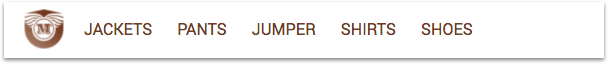
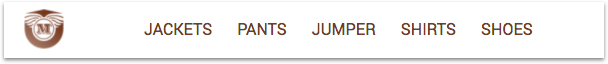
feat: abandoned cart navbar

Changed region(s): [[0.125, 0.3438, 0.875, 0.5625]]

diff --git a/abandoned_cart/index.html b/abandoned_cart/index.html
@@ -42,9 +42,11 @@
 
 <!--[if !mso]><!-->
     <link href="https://fonts.googleapis.com/css?family=Roboto:300,400,500,700" rel="stylesheet" type="text/css">
+<link href="https://fonts.googleapis.com/css?family=Ubuntu:300,400,500,700" rel="stylesheet" type="text/css">
     <style type="text/css">
 
         @import url(https://fonts.googleapis.com/css?family=Roboto:300,400,500,700);
+  @import url(https://fonts.googleapis.com/css?family=Ubuntu:300,400,500,700);
 
     </style>
   <!--<![endif]--><style type="text/css">
@@ -68,7 +70,18 @@
 .mj-column-px-295 { width:295px!important; }
   }
 </style>
-</head>
+<style type="text/css">
+        noinput.mj-menu-checkbox { display:block!important; max-height:none!important; visibility:visible!important; }
+
+        @media only screen and (max-width:480px) {
+          .mj-menu-checkbox[type="checkbox"] ~ .mj-inline-links { display:none!important; }
+          .mj-menu-checkbox[type="checkbox"]:checked ~ .mj-inline-links,
+          .mj-menu-checkbox[type="checkbox"] ~ .mj-menu-trigger { display:block!important; max-width:none!important; max-height:none!important; font-size:inherit!important; }
+          .mj-menu-checkbox[type="checkbox"] ~ .mj-inline-links > a { display:block!important; }
+          .mj-menu-checkbox[type="checkbox"]:checked ~ .mj-menu-trigger .mj-menu-icon-close { display:block!important; }
+          .mj-menu-checkbox[type="checkbox"]:checked ~ .mj-menu-trigger .mj-menu-icon-open { display:none!important; }
+        }
+      </style></head>
 <body>
   <div><!--[if mso | IE]>
       <table role="presentation" border="0" cellpadding="0" cellspacing="0" width="600" align="center" style="width:600px;">
@@ -78,28 +91,30 @@
       <table role="presentation" border="0" cellpadding="0" cellspacing="0"><tr><td style="vertical-align:middle;width:80px;">
       <![endif]--><div class="mj-column-px-80 outlook-group-fix" style="vertical-align:middle;display:inline-block;direction:ltr;font-size:13px;text-align:left;width:100%;"><table role="presentation" cellpadding="0" cellspacing="0" style="vertical-align:middle;" width="100%" border="0"><tbody><tr><td style="word-break:break-word;font-size:0px;padding:10px;" align="center"><table role="presentation" cellpadding="0" cellspacing="0" style="border-collapse:collapse;border-spacing:0px;" align="center" border="0"><tbody><tr><td style="width:40px;"><img alt="" title="" height="auto" src="https://s27.postimg.org/u09gkrbcz/logo_small.png" style="border:none;border-radius:0px;display:block;outline:none;text-decoration:none;width:100%;height:auto;" width="40"></td></tr></tbody></table></td></tr></tbody></table></div><!--[if mso | IE]>
       </td><td style="vertical-align:middle;width:520px;">
-      <![endif]--><div class="mj-column-px-520 outlook-group-fix" style="vertical-align:middle;display:inline-block;direction:ltr;font-size:13px;text-align:left;width:100%;"><table role="presentation" cellpadding="0" cellspacing="0" style="vertical-align:middle;" width="100%" border="0"><tbody><tr><td style="word-break:break-word;font-size:0px;padding:0px;" align="left"><div><div class="mj-inline-links" style="width:100%;text-align:left;"><!--[if gte mso 9]>
-          <table role="presentation" border="0" cellpadding="0" cellspacing="0" align="left">
+      <![endif]--><div class="mj-column-px-520 outlook-group-fix" style="vertical-align:middle;display:inline-block;direction:ltr;font-size:13px;text-align:left;width:100%;"><table role="presentation" cellpadding="0" cellspacing="0" style="vertical-align:middle;" width="100%" border="0"><tbody><tr><td style="word-break:break-word;font-size:0px;padding:0px;" align="center"><div><!--[if !mso]><!-->
+          <input type="checkbox" id="ff4269aa8b6ded86" class="mj-menu-checkbox" style="display:none !important; max-height:0; visibility:hidden;">
+        <!--<![endif]--><div class="mj-menu-trigger" style="display:none;max-height:0px;max-width:0px;font-size:0px;overflow:hidden;"><label for="ff4269aa8b6ded86" class="mj-menu-label" style="display:block;cursor:pointer;mso-hide:all;-moz-user-select:none;user-select:none;text-align:center;color:#763b26;font-size:40px;font-family:Ubuntu, Helvetica, Arial, sans-serif;text-transform:uppercase;text-decoration:none;line-height:30px;padding-top:10px;padding-left:10px;padding-right:10px;padding-bottom:20px;"><span class="mj-menu-icon-open" style="mso-hide:all;">☰</span><span class="mj-menu-icon-close" style="display:none;mso-hide:all;">⊗</span></label></div><div class="mj-inline-links" style="width:100%;text-align:center;"><!--[if gte mso 9]>
+          <table role="presentation" border="0" cellpadding="0" cellspacing="0" align="center">
             <tr>
         <![endif]--><!--[if gte mso 9]>
-          <td style="padding: 0">
-        <![endif]--><a href="/jackets" style="display:inline-block;text-decoration:none;text-transform:uppercase;color:#763b26;font-family:Roboto, Helvetica, Arial, sans-serif;font-size:16px;font-weight:normal;line-height:22px;padding:0px;padding-right:25px;">JACKETS</a><!--[if gte mso 9]>
+          <td style="padding: 12px">
+        <![endif]--><a href="/jackets" style="display:inline-block;text-decoration:none;text-transform:uppercase;color:#763b26;font-family:Roboto, Helvetica, Arial, sans-serif;font-size:16px;font-weight:normal;line-height:22px;padding:12px;">JACKETS</a><!--[if gte mso 9]>
           </td>
         <![endif]--><!--[if gte mso 9]>
-          <td style="padding: 0">
-        <![endif]--><a href="/pants" style="display:inline-block;text-decoration:none;text-transform:uppercase;color:#763b26;font-family:Roboto, Helvetica, Arial, sans-serif;font-size:16px;font-weight:normal;line-height:22px;padding:0px;padding-right:25px;">PANTS</a><!--[if gte mso 9]>
+          <td style="padding: 12px">
+        <![endif]--><a href="/pants" style="display:inline-block;text-decoration:none;text-transform:uppercase;color:#763b26;font-family:Roboto, Helvetica, Arial, sans-serif;font-size:16px;font-weight:normal;line-height:22px;padding:12px;">PANTS</a><!--[if gte mso 9]>
           </td>
         <![endif]--><!--[if gte mso 9]>
-          <td style="padding: 0">
-        <![endif]--><a href="/jumper" style="display:inline-block;text-decoration:none;text-transform:uppercase;color:#763b26;font-family:Roboto, Helvetica, Arial, sans-serif;font-size:16px;font-weight:normal;line-height:22px;padding:0px;padding-right:25px;">JUMPER</a><!--[if gte mso 9]>
+          <td style="padding: 12px">
+        <![endif]--><a href="/jumper" style="display:inline-block;text-decoration:none;text-transform:uppercase;color:#763b26;font-family:Roboto, Helvetica, Arial, sans-serif;font-size:16px;font-weight:normal;line-height:22px;padding:12px;">JUMPER</a><!--[if gte mso 9]>
           </td>
         <![endif]--><!--[if gte mso 9]>
-          <td style="padding: 0">
-        <![endif]--><a href="/shirts" style="display:inline-block;text-decoration:none;text-transform:uppercase;color:#763b26;font-family:Roboto, Helvetica, Arial, sans-serif;font-size:16px;font-weight:normal;line-height:22px;padding:0px;padding-right:25px;">SHIRTS</a><!--[if gte mso 9]>
+          <td style="padding: 12px">
+        <![endif]--><a href="/shirts" style="display:inline-block;text-decoration:none;text-transform:uppercase;color:#763b26;font-family:Roboto, Helvetica, Arial, sans-serif;font-size:16px;font-weight:normal;line-height:22px;padding:12px;">SHIRTS</a><!--[if gte mso 9]>
           </td>
         <![endif]--><!--[if gte mso 9]>
-          <td style="padding: 0">
-        <![endif]--><a href="/shoes" style="display:inline-block;text-decoration:none;text-transform:uppercase;color:#763b26;font-family:Roboto, Helvetica, Arial, sans-serif;font-size:16px;font-weight:normal;line-height:22px;padding:0px;padding-right:25px;">SHOES</a><!--[if gte mso 9]>
+          <td style="padding: 12px">
+        <![endif]--><a href="/shoes" style="display:inline-block;text-decoration:none;text-transform:uppercase;color:#763b26;font-family:Roboto, Helvetica, Arial, sans-serif;font-size:16px;font-weight:normal;line-height:22px;padding:12px;">SHOES</a><!--[if gte mso 9]>
           </td>
         <![endif]--><!--[if gte mso 9]>
             </tr>

diff --git a/abandoned_cart/README.md b/abandoned_cart/README.md
@@ -92,15 +92,23 @@ The second [`<mj-column>`](https://mjml.io/documentation/?utm_source=referrer&ut
 <!-- Navigation bar-->
 <mj-navbar background-color="#ffffff">
   <mj-column width="80px" vertical-align="middle">
-    <mj-image width="40px" src="http://bit.ly/mj-tpl-tuto-logo-small" padding="10px"></mj-image>
+    <mj-image width="40px" src="https://s27.postimg.org/u09gkrbcz/logo_small.png" padding="10px"></mj-image>
   </mj-column>
   <mj-column width="520px" vertical-align="middle">
-    <mj-inline-links base-url="#" align="left">
-      <mj-link href="/jackets" mj-class="nav-link" padding-right="25px" font-size="16">JACKETS</mj-link>
-      <mj-link href="/pants" mj-class="nav-link" padding-right="25px" font-size="16">PANTS</mj-link>
-      <mj-link href="/jumper" mj-class="nav-link" padding-right="25px" font-size="16">JUMPER</mj-link>
-      <mj-link href="/shirts" mj-class="nav-link" padding-right="25px" font-size="16">SHIRTS</mj-link>
-      <mj-link href="/shoes" mj-class="nav-link" padding-right="25px" font-size="16">SHOES</mj-link>
+    <mj-inline-links
+      hamburger="hamburger"
+      base-url="#"
+      align="center"
+      ico-left="30px"
+      ico-align="center"
+      ico-font-size="40px"
+      ico-color="#763b26"
+      ico-padding-bottom="20px">
+        <mj-link href="/jackets" mj-class="nav-link">JACKETS</mj-link>
+        <mj-link href="/pants" mj-class="nav-link">PANTS</mj-link>
+        <mj-link href="/jumper" mj-class="nav-link">JUMPER</mj-link>
+        <mj-link href="/shirts" mj-class="nav-link">SHIRTS</mj-link>
+        <mj-link href="/shoes" mj-class="nav-link">SHOES</mj-link>
     </mj-inline-links>
   </mj-column>
 </mj-navbar>
